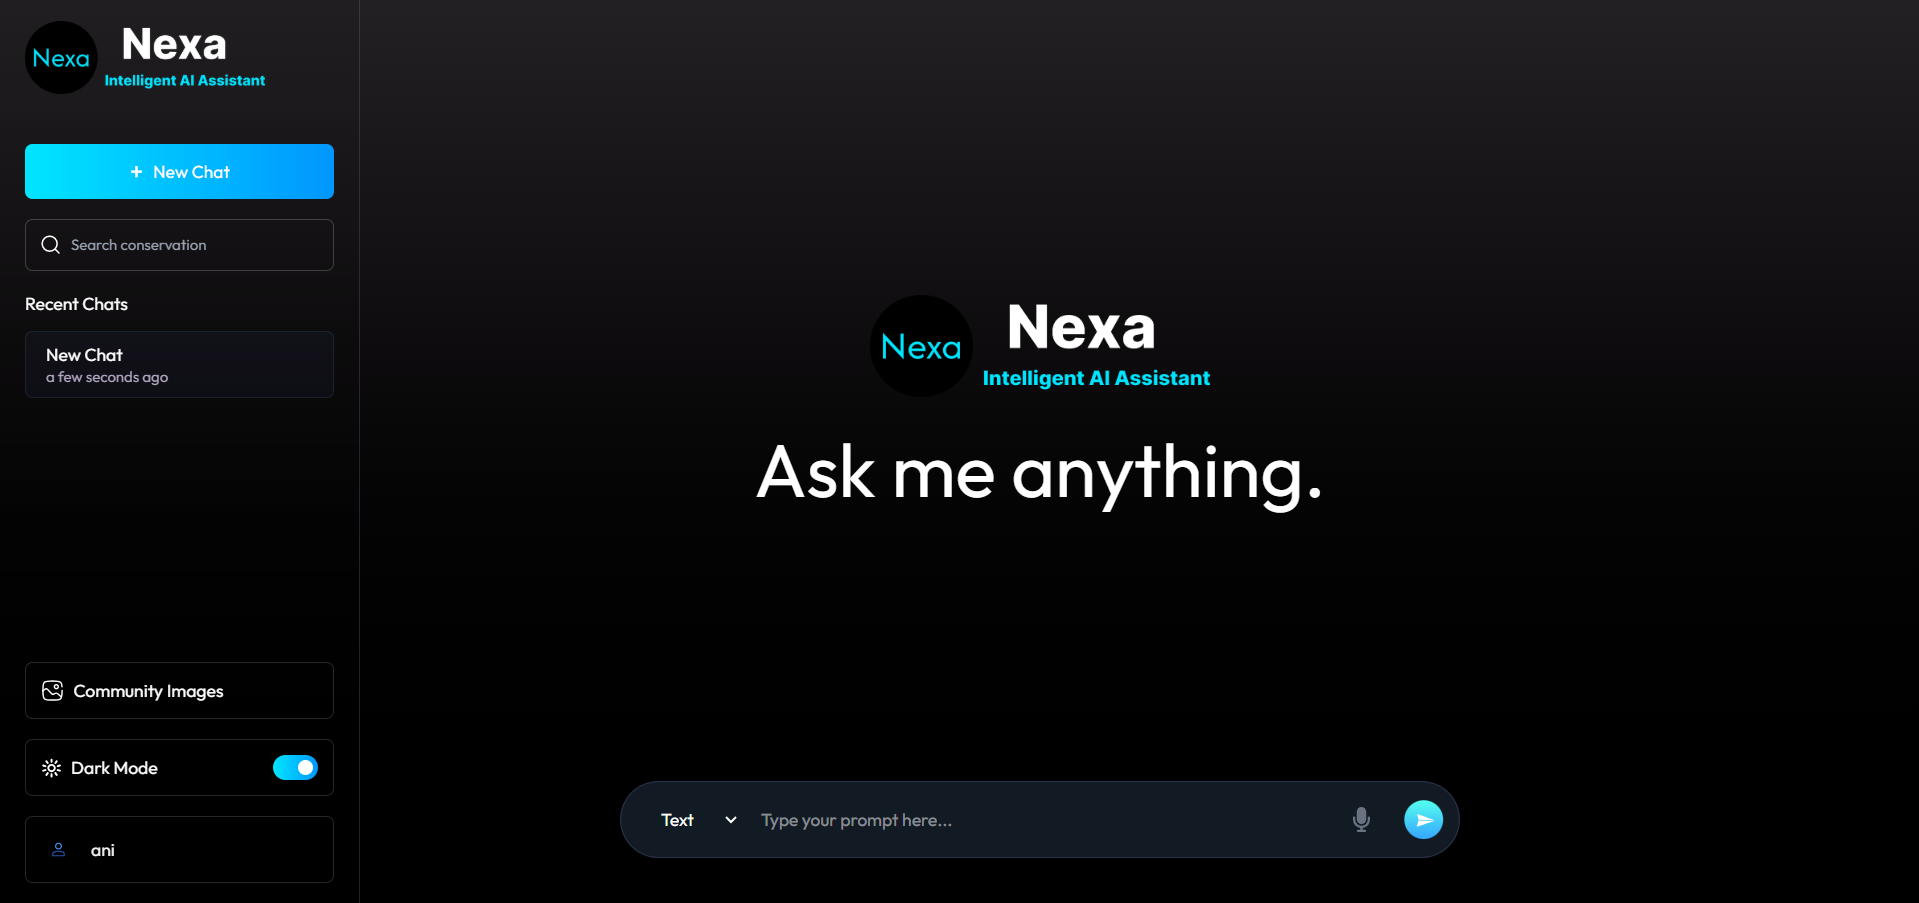
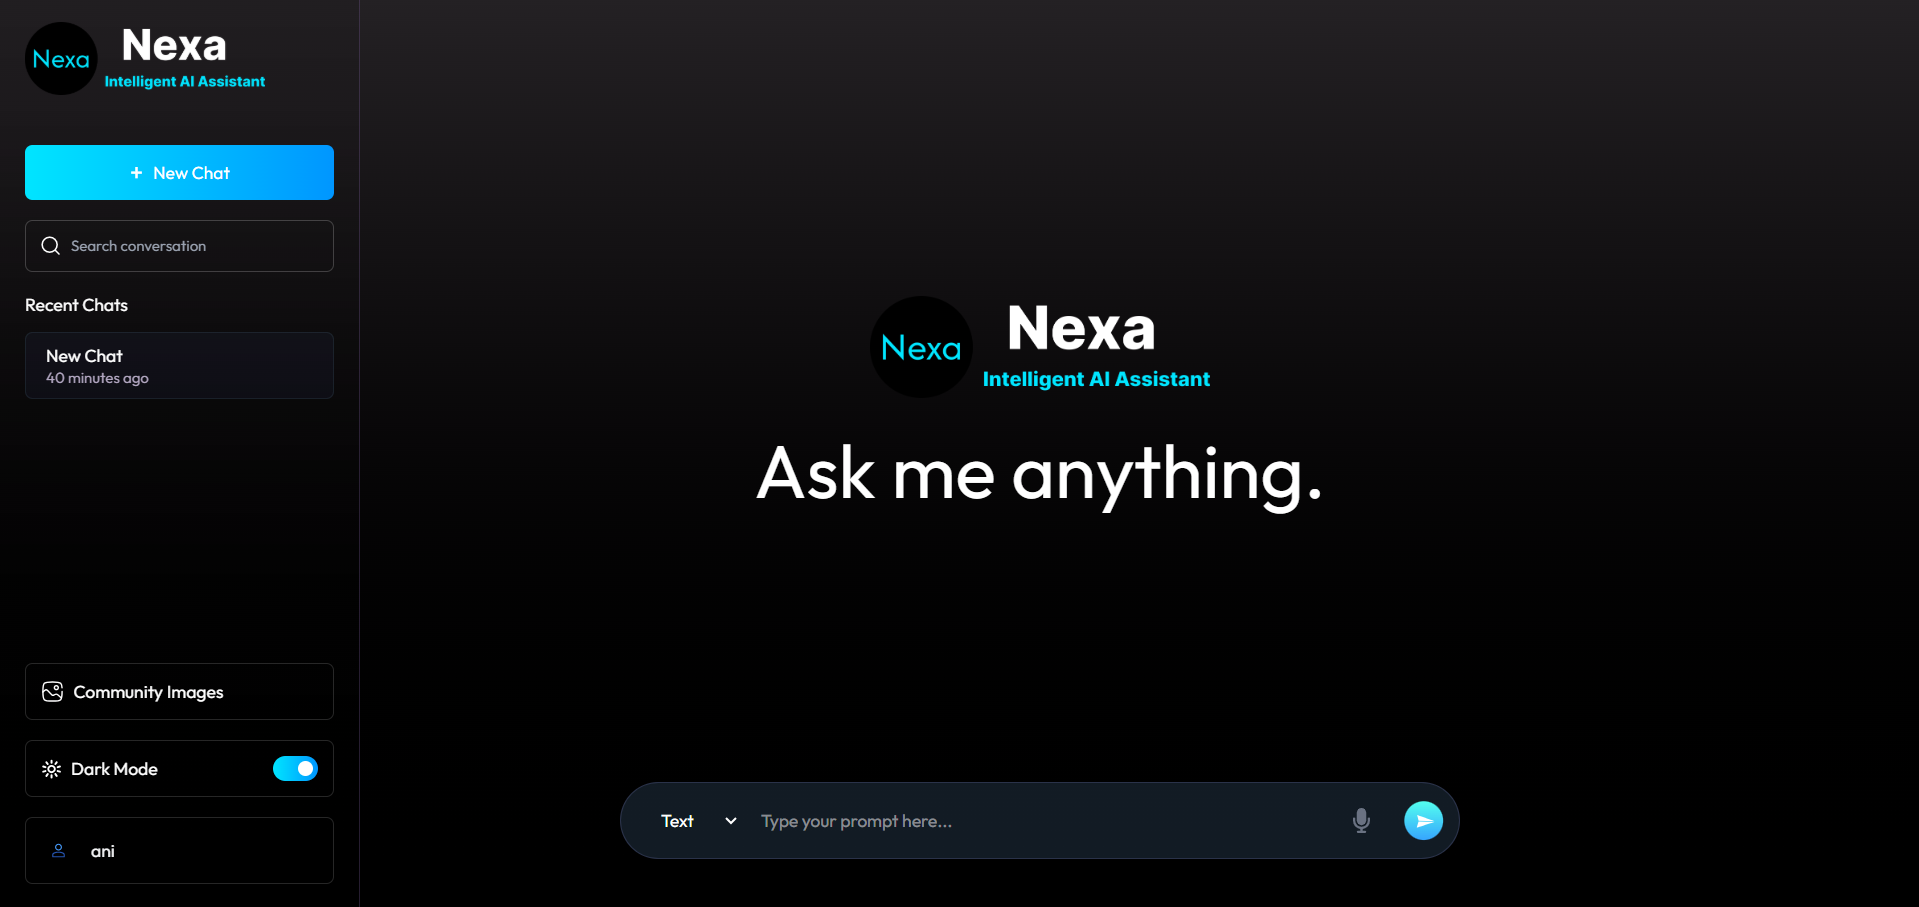
update

diff --git a/client/src/components/Sidebar.jsx b/client/src/components/Sidebar.jsx
@@ -59,7 +59,7 @@ const Sidebar = ({isMenuOpen, setIsMenuOpen}) => {
           onChange={(e) => setSearch(e.target.value)}
           value={search}
           type="text"
-          placeholder="Search conservation"
+          placeholder="Search conversation"
           className="text-xs placeholder:text-gray-400 outline-none"
         />
       </div>
